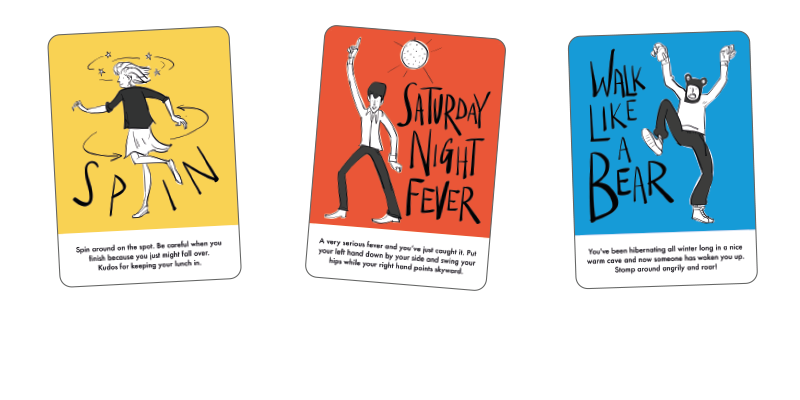
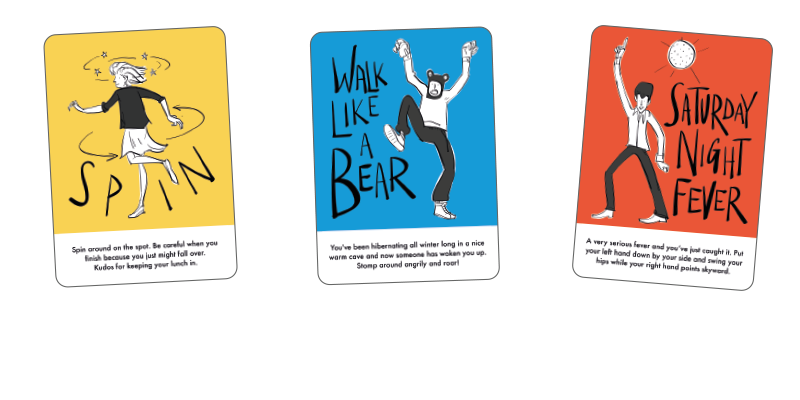
Updated card combinations so that cards match text. Increased parallax cover ratio to 0.9.

diff --git a/js/main.js b/js/main.js
@@ -1,7 +1,7 @@
 // Parallax effect
 var touch = Modernizr.touch;
 $('.img-holder').imageScroll({
-    coverRatio: 0.5,
+    coverRatio: 0.9,
     speed: 0.3,
     imageAttribute: touch === true ? 'image-mobile' : 'image',
     touch: touch
